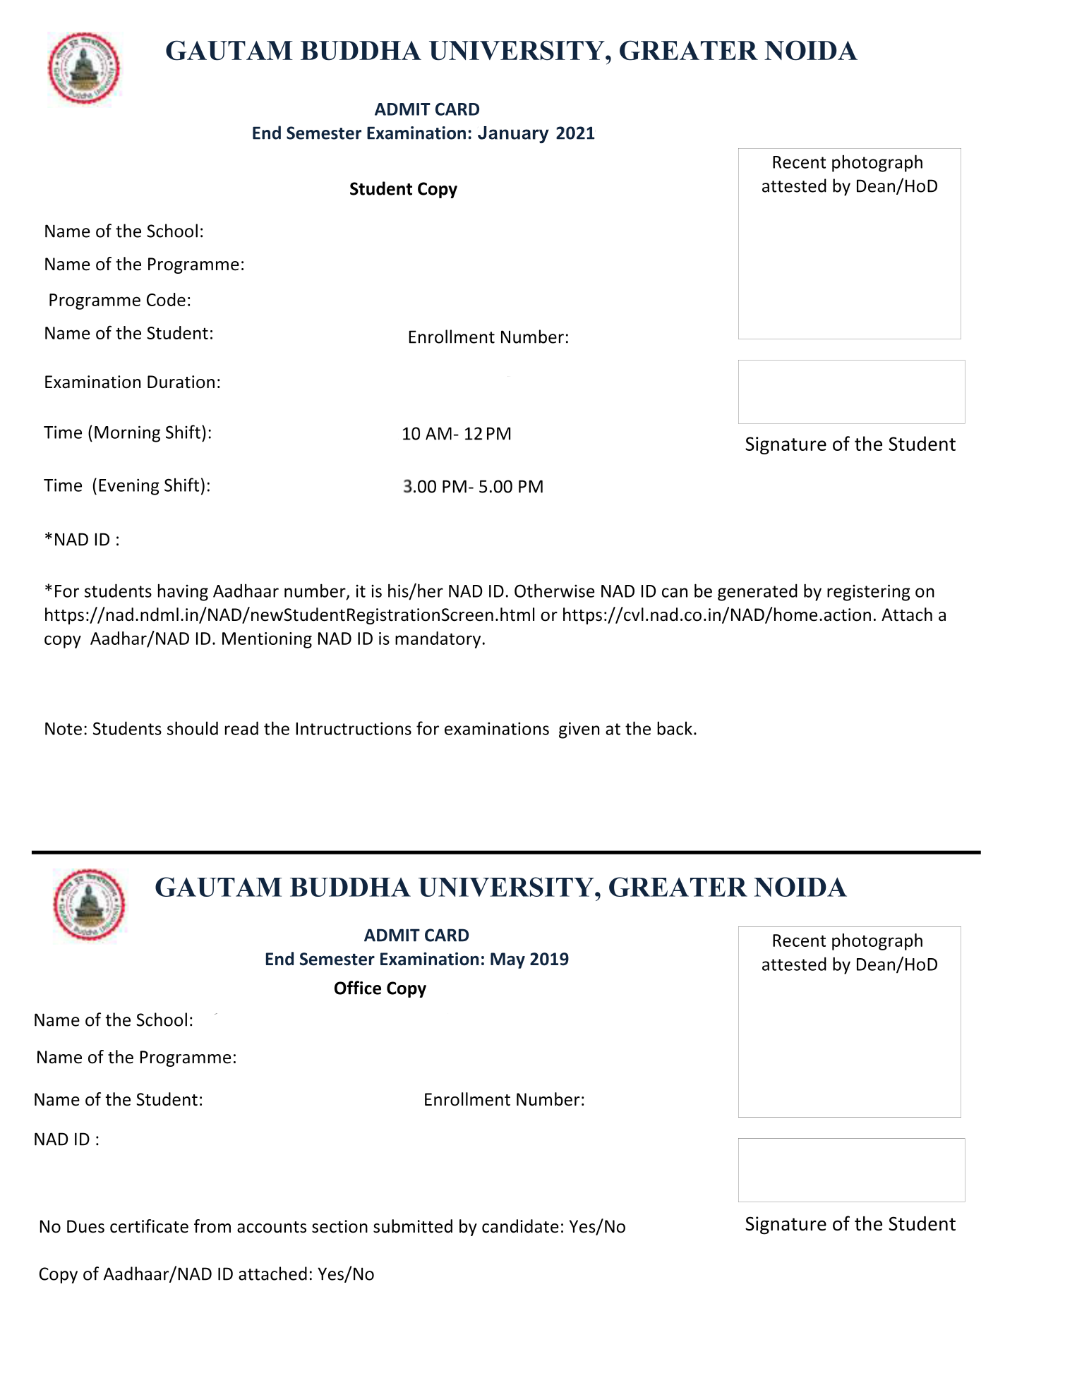
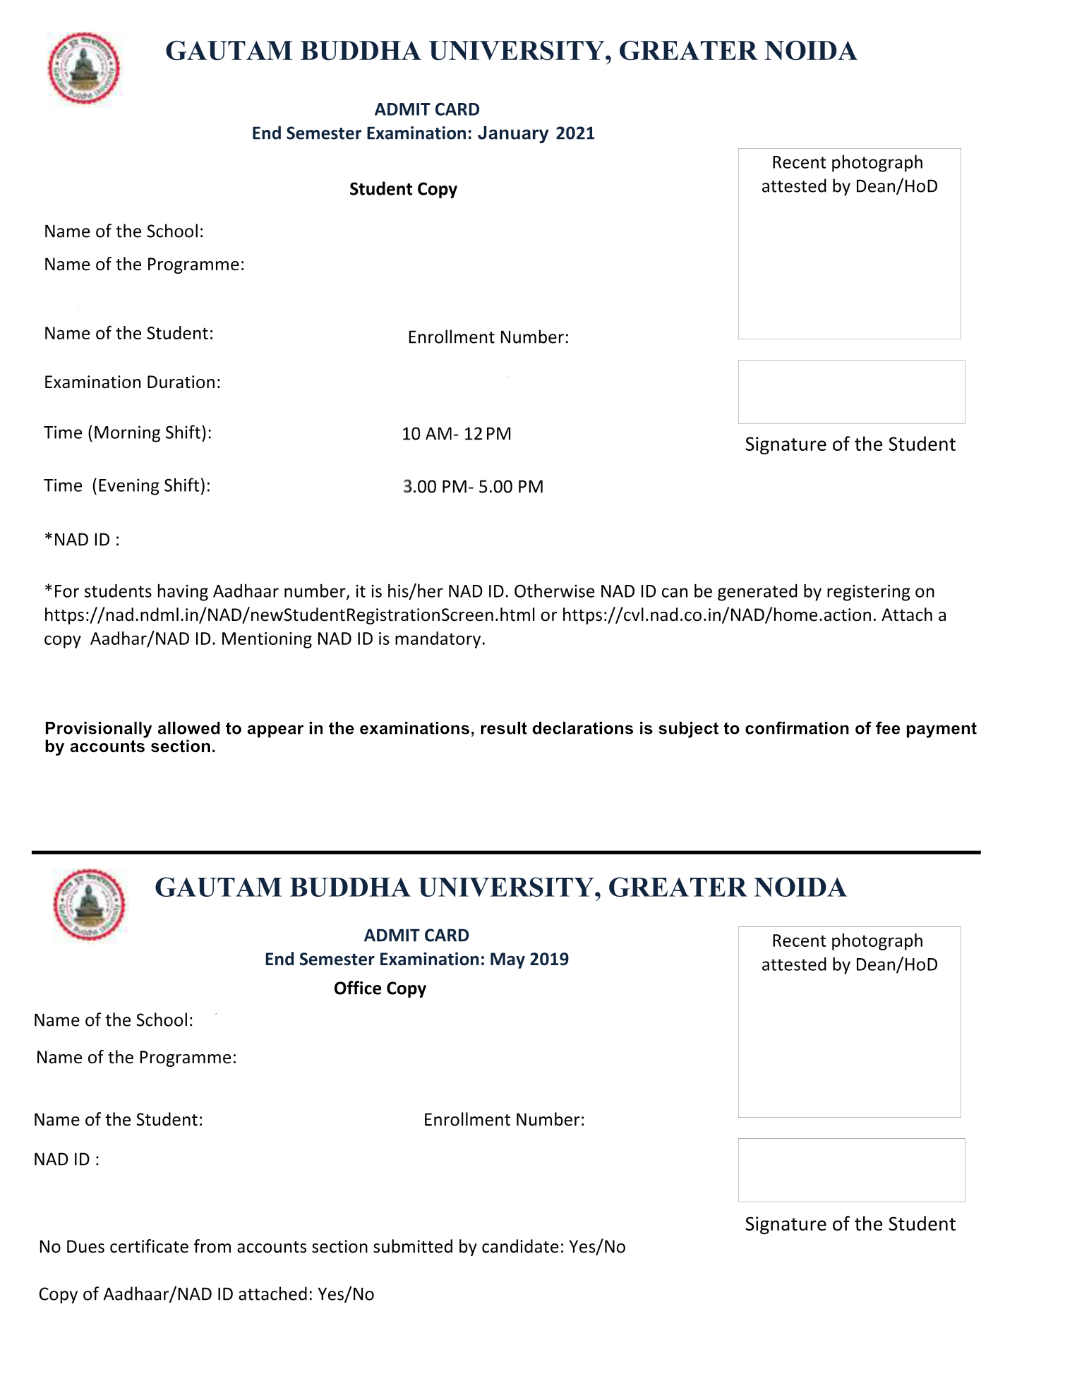
new

diff --git a/public/js/index.js b/public/js/index.js
@@ -260,7 +260,7 @@ submit.onclick = async () => {
             }),
         })
         let resData = await res.json()
-        // console.log(resData)
+        console.log(resData)
         if (resData.get) {
             if (resData.data.length <= 0) {
                 alert("No data found re-try entering roll no and date of birth")
@@ -302,8 +302,8 @@ function showDataOnCanvas(details) {
     }
     const student_copy_positions = {
         name_of_school: [218, 238],
-        name_of_programme: [255, 270],
-        programme_code: [204, 306],
+        name_of_programme: [255, 270, 450],
+        // programme_code: [204, 306],
         student_name: [224, 339],
         examination_duration: [228, 388],
         aadhar_id: [177, 545],
@@ -314,19 +314,51 @@ function showDataOnCanvas(details) {
 
     const office_copy_positions = {
         name_of_school: [218, 1026],
-        name_of_programme: [255, 1063],
-        student_name: [224, 1105],
-        aadhar_id: [177, 1146],
-        roll_no: [588, 1105],
+        name_of_programme: [255, 1063, 450],
+        student_name: [224, 1125],
+        aadhar_id: [177, 1166],
+        roll_no: [588, 1125],
         photo: [739, 927, 961, 1118],
         signature: [738, 1139, 965, 1202],
     }
     // timing_morning_shift: [221, 424],
     // timing_evening_shift: [219, 477],
 
-    function canvasText(text, x, y) {
+    function canvasText(text, x, y, maxWidth) {
         ctx.font = "bold 18px Arial"
-        ctx.fillText(text, x, y)
+        if (maxWidth) ctx.fillText(text, x, y, maxWidth)
+        else ctx.fillText(text, x, y)
+    }
+    function printAt(context, text, x, y, lineHeight, fitWidth) {
+        fitWidth = fitWidth || 0
+        if (fitWidth <= 0) {
+            context.fillText(text, x, y)
+            return
+        }
+        var words = text.split(" ")
+        var currentLine = 0
+        var idx = 1
+        while (words.length > 0 && idx <= words.length) {
+            var str = words.slice(0, idx).join(" ")
+            var w = context.measureText(str).width
+            if (w > fitWidth) {
+                if (idx == 1) {
+                    idx = 2
+                }
+                context.fillText(
+                    words.slice(0, idx - 1).join(" "),
+                    x,
+                    y + lineHeight * currentLine
+                )
+                currentLine++
+                words = words.splice(idx - 1)
+                idx = 1
+            } else {
+                idx++
+            }
+        }
+        if (idx > 0)
+            context.fillText(words.join(" "), x, y + lineHeight * currentLine)
     }
     function canvasImage(image, [x1, y1, x2, y2]) {
         let width = x2 - x1
@@ -356,16 +388,19 @@ function showDataOnCanvas(details) {
                 student_copy_positions.name_of_school[0],
                 student_copy_positions.name_of_school[1]
             )
-            canvasText(
+            printAt(
+                ctx,
                 details.Programme,
                 student_copy_positions.name_of_programme[0],
-                student_copy_positions.name_of_programme[1]
+                student_copy_positions.name_of_programme[1],
+                20,
+                student_copy_positions.name_of_programme[2]
             )
-            canvasText(
-                details.Programme,
-                student_copy_positions.programme_code[0],
-                student_copy_positions.programme_code[1]
-            )
+            // canvasText(
+            //     details.Programme,
+            //     student_copy_positions.programme_code[0],
+            //     student_copy_positions.programme_code[1]
+            // )
             canvasText(
                 details["Aadhar no"] ? details["Aadhar no"] : "",
                 student_copy_positions.aadhar_id[0],
@@ -401,10 +436,13 @@ function showDataOnCanvas(details) {
                 office_copy_positions.name_of_school[0],
                 office_copy_positions.name_of_school[1]
             )
-            canvasText(
+            printAt(
+                ctx,
                 details.Programme,
                 office_copy_positions.name_of_programme[0],
-                office_copy_positions.name_of_programme[1]
+                office_copy_positions.name_of_programme[1],
+                20,
+                office_copy_positions.name_of_programme[2]
             )
             canvasText(
                 details["Aadhar no"] ? details["Aadhar no"] : "",
@@ -421,26 +459,26 @@ function showDataOnCanvas(details) {
     draw()
 }
 
-let data = {
-    "Aadhar Image(.jpg)": null,
-    "Aadhar no": null,
-    Batch: "2019-2022",
-    "Date of Birth": "23/03/2000",
-    Email: "notshekhar@gmail.com",
-    Father_s_name: "Naresh Tyagi",
-    "Fee Status": "Submitted",
-    Gender: "Male",
-    "Mobile no": "9027760089",
-    "Photo Upload(.jpg)": null,
-    Programme: "B.Tech",
-    Roll_Number: "18/BEC/046",
-    SCHOOL: "School of Information and Technology",
-    Semester: "V",
-    "Signature(.jpg)": null,
-    Specialization: "Electronic and Communication",
-    Student_Name: "Shekhar Tyagi",
-    id: 1,
-}
+// let data = {
+//     "Aadhar Image(.jpg)": null,
+//     "Aadhar no": null,
+//     Batch: "2019-2022",
+//     "Date of Birth": "23/03/2000",
+//     Email: "notshekhar@gmail.com",
+//     Father_s_name: "Naresh Tyagi",
+//     "Fee Status": "Submitted",
+//     Gender: "Male",
+//     "Mobile no": "9027760089",
+//     "Photo Upload(.jpg)": null,
+//     Programme: "B.Tech",
+//     Roll_Number: "18/BEC/046",
+//     SCHOOL: "School of Information and Technology",
+//     Semester: "V",
+//     "Signature(.jpg)": null,
+//     Specialization: "Electronic and Communication",
+//     Student_Name: "Shekhar Tyagi",
+//     id: 1,
+// }
 // showDataOnCanvas(data)
 
 //admin login

diff --git a/public/js/admin.js b/public/js/admin.js
@@ -47,11 +47,11 @@ function createSchoolDropDown(data) {
         })
         select.append(school_dropdown_menu_item)
     })
-    select.append(
-        createElement("option", {
-            innerText: "Select School",
-        })
-    )
+    // select.append(
+    //     createElement("option", {
+    //         innerText: "Select School",
+    //     })
+    // )
     school_dropdown.append(select)
     header.append(school_dropdown)
 }
